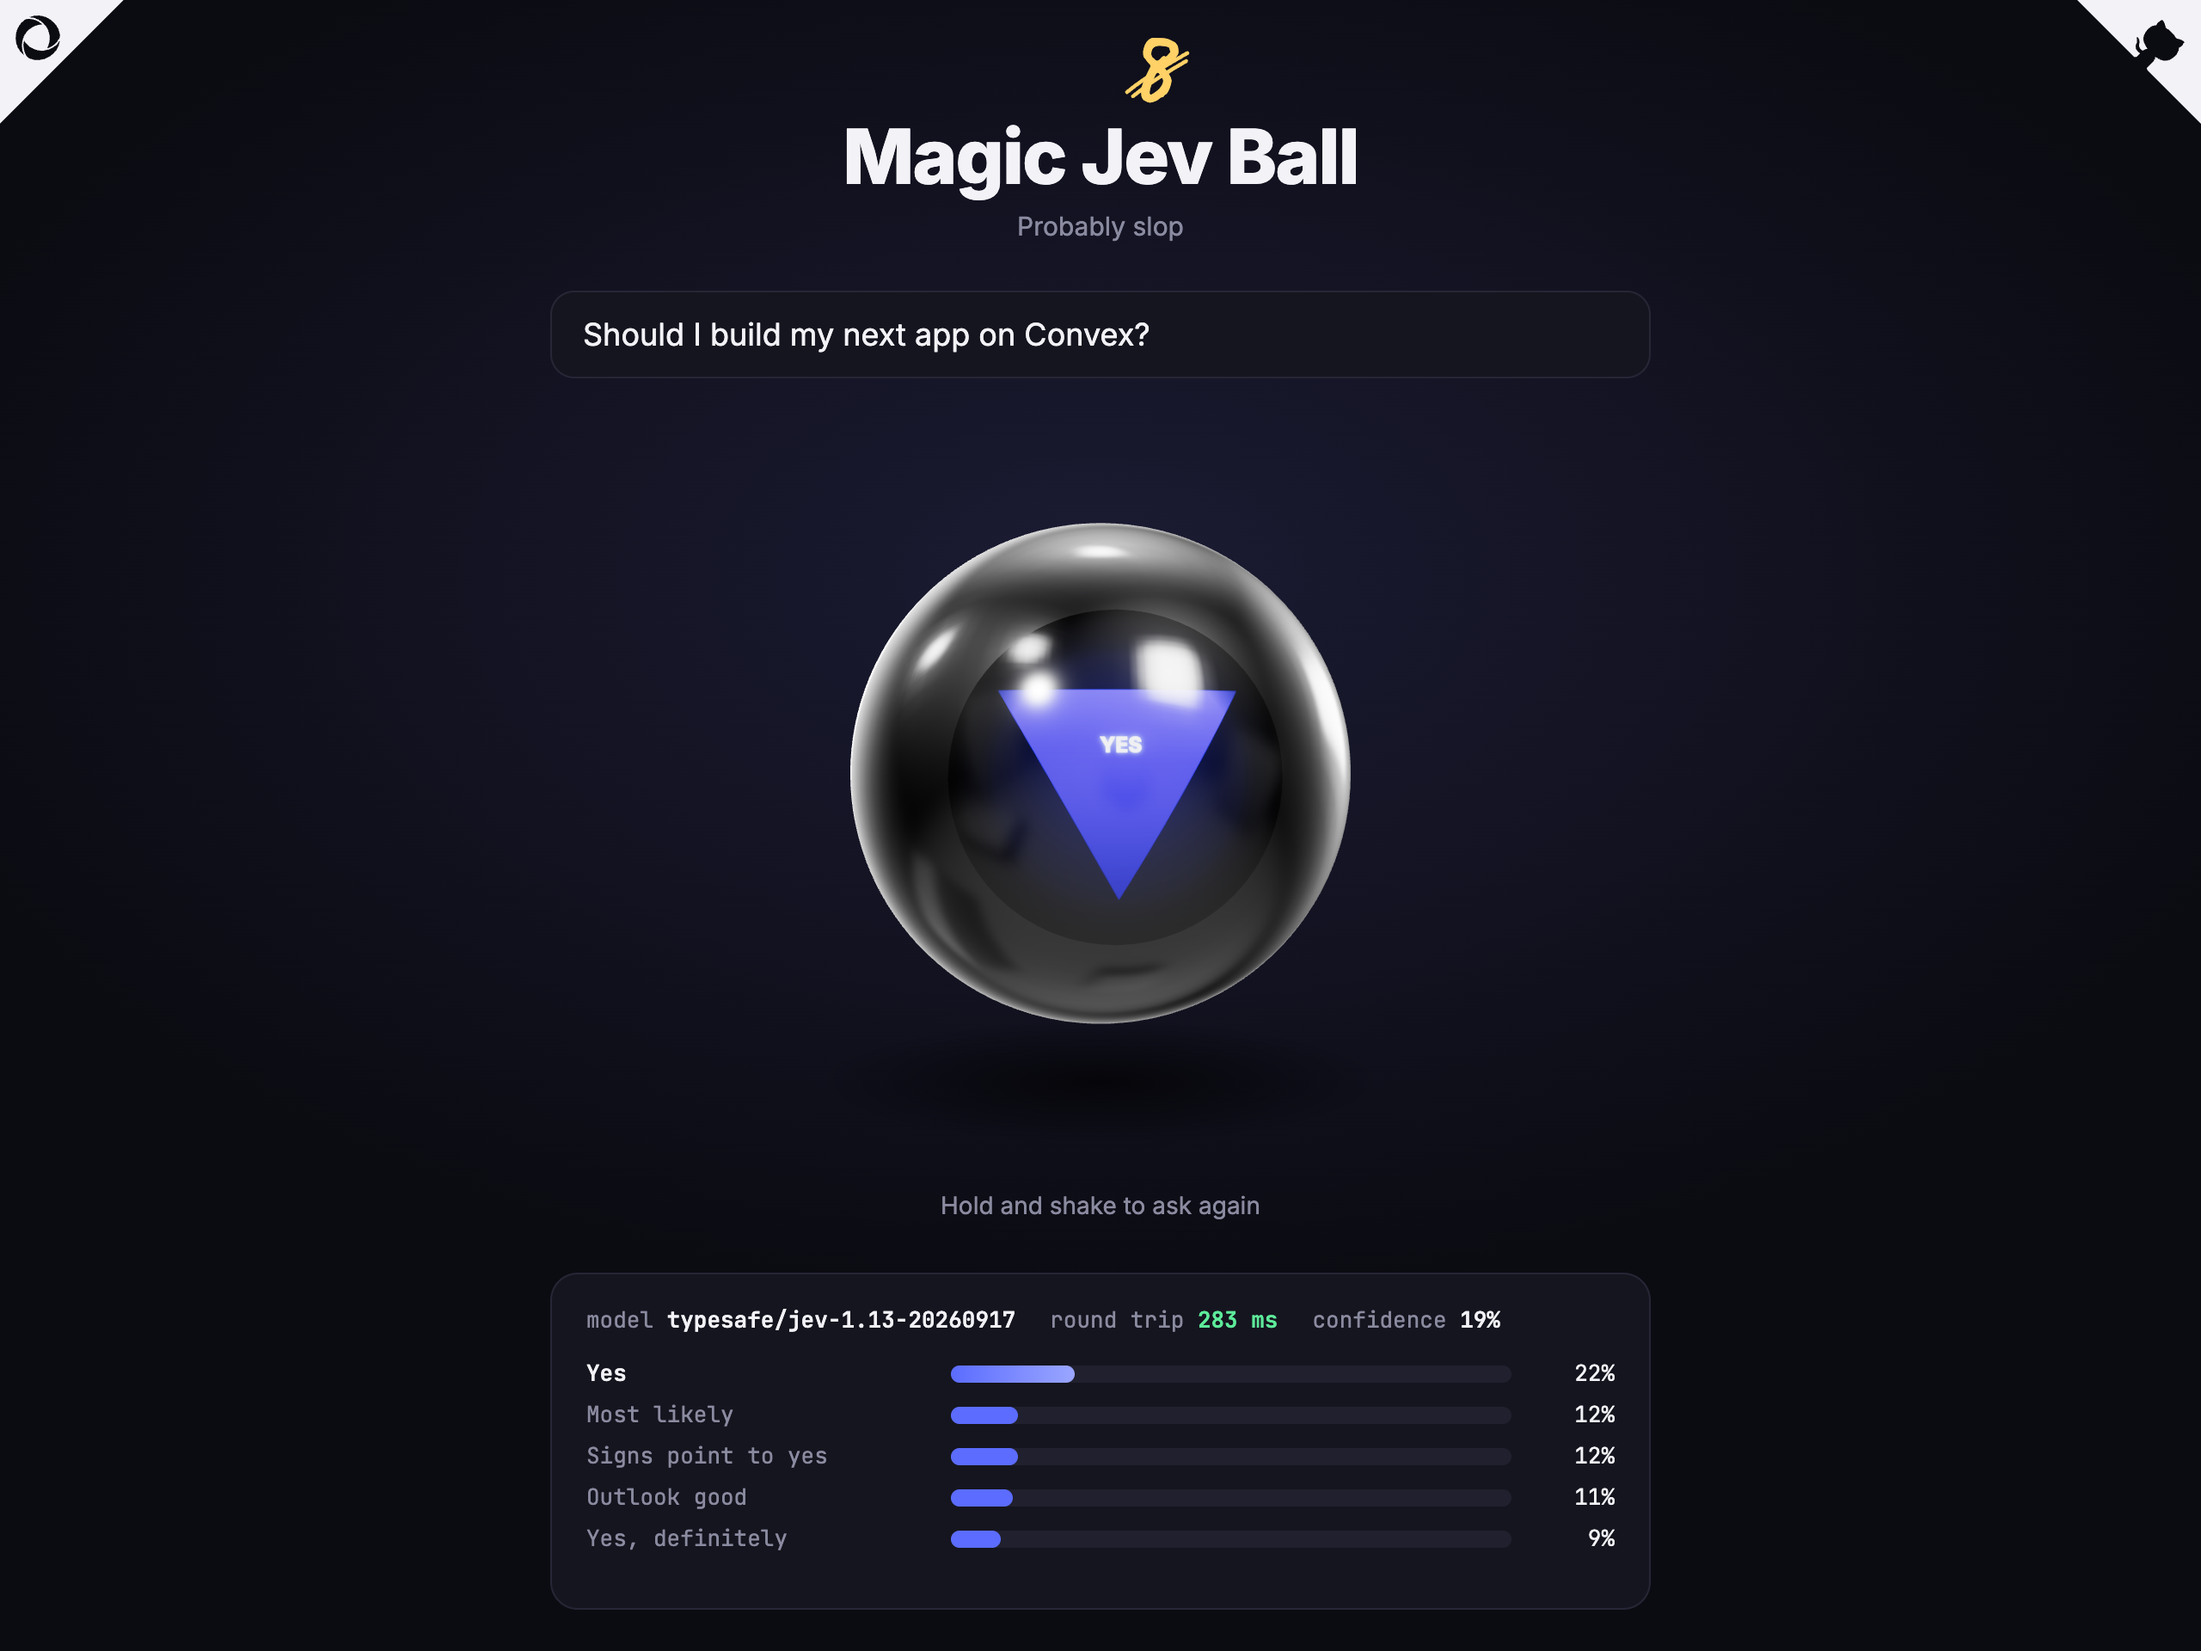
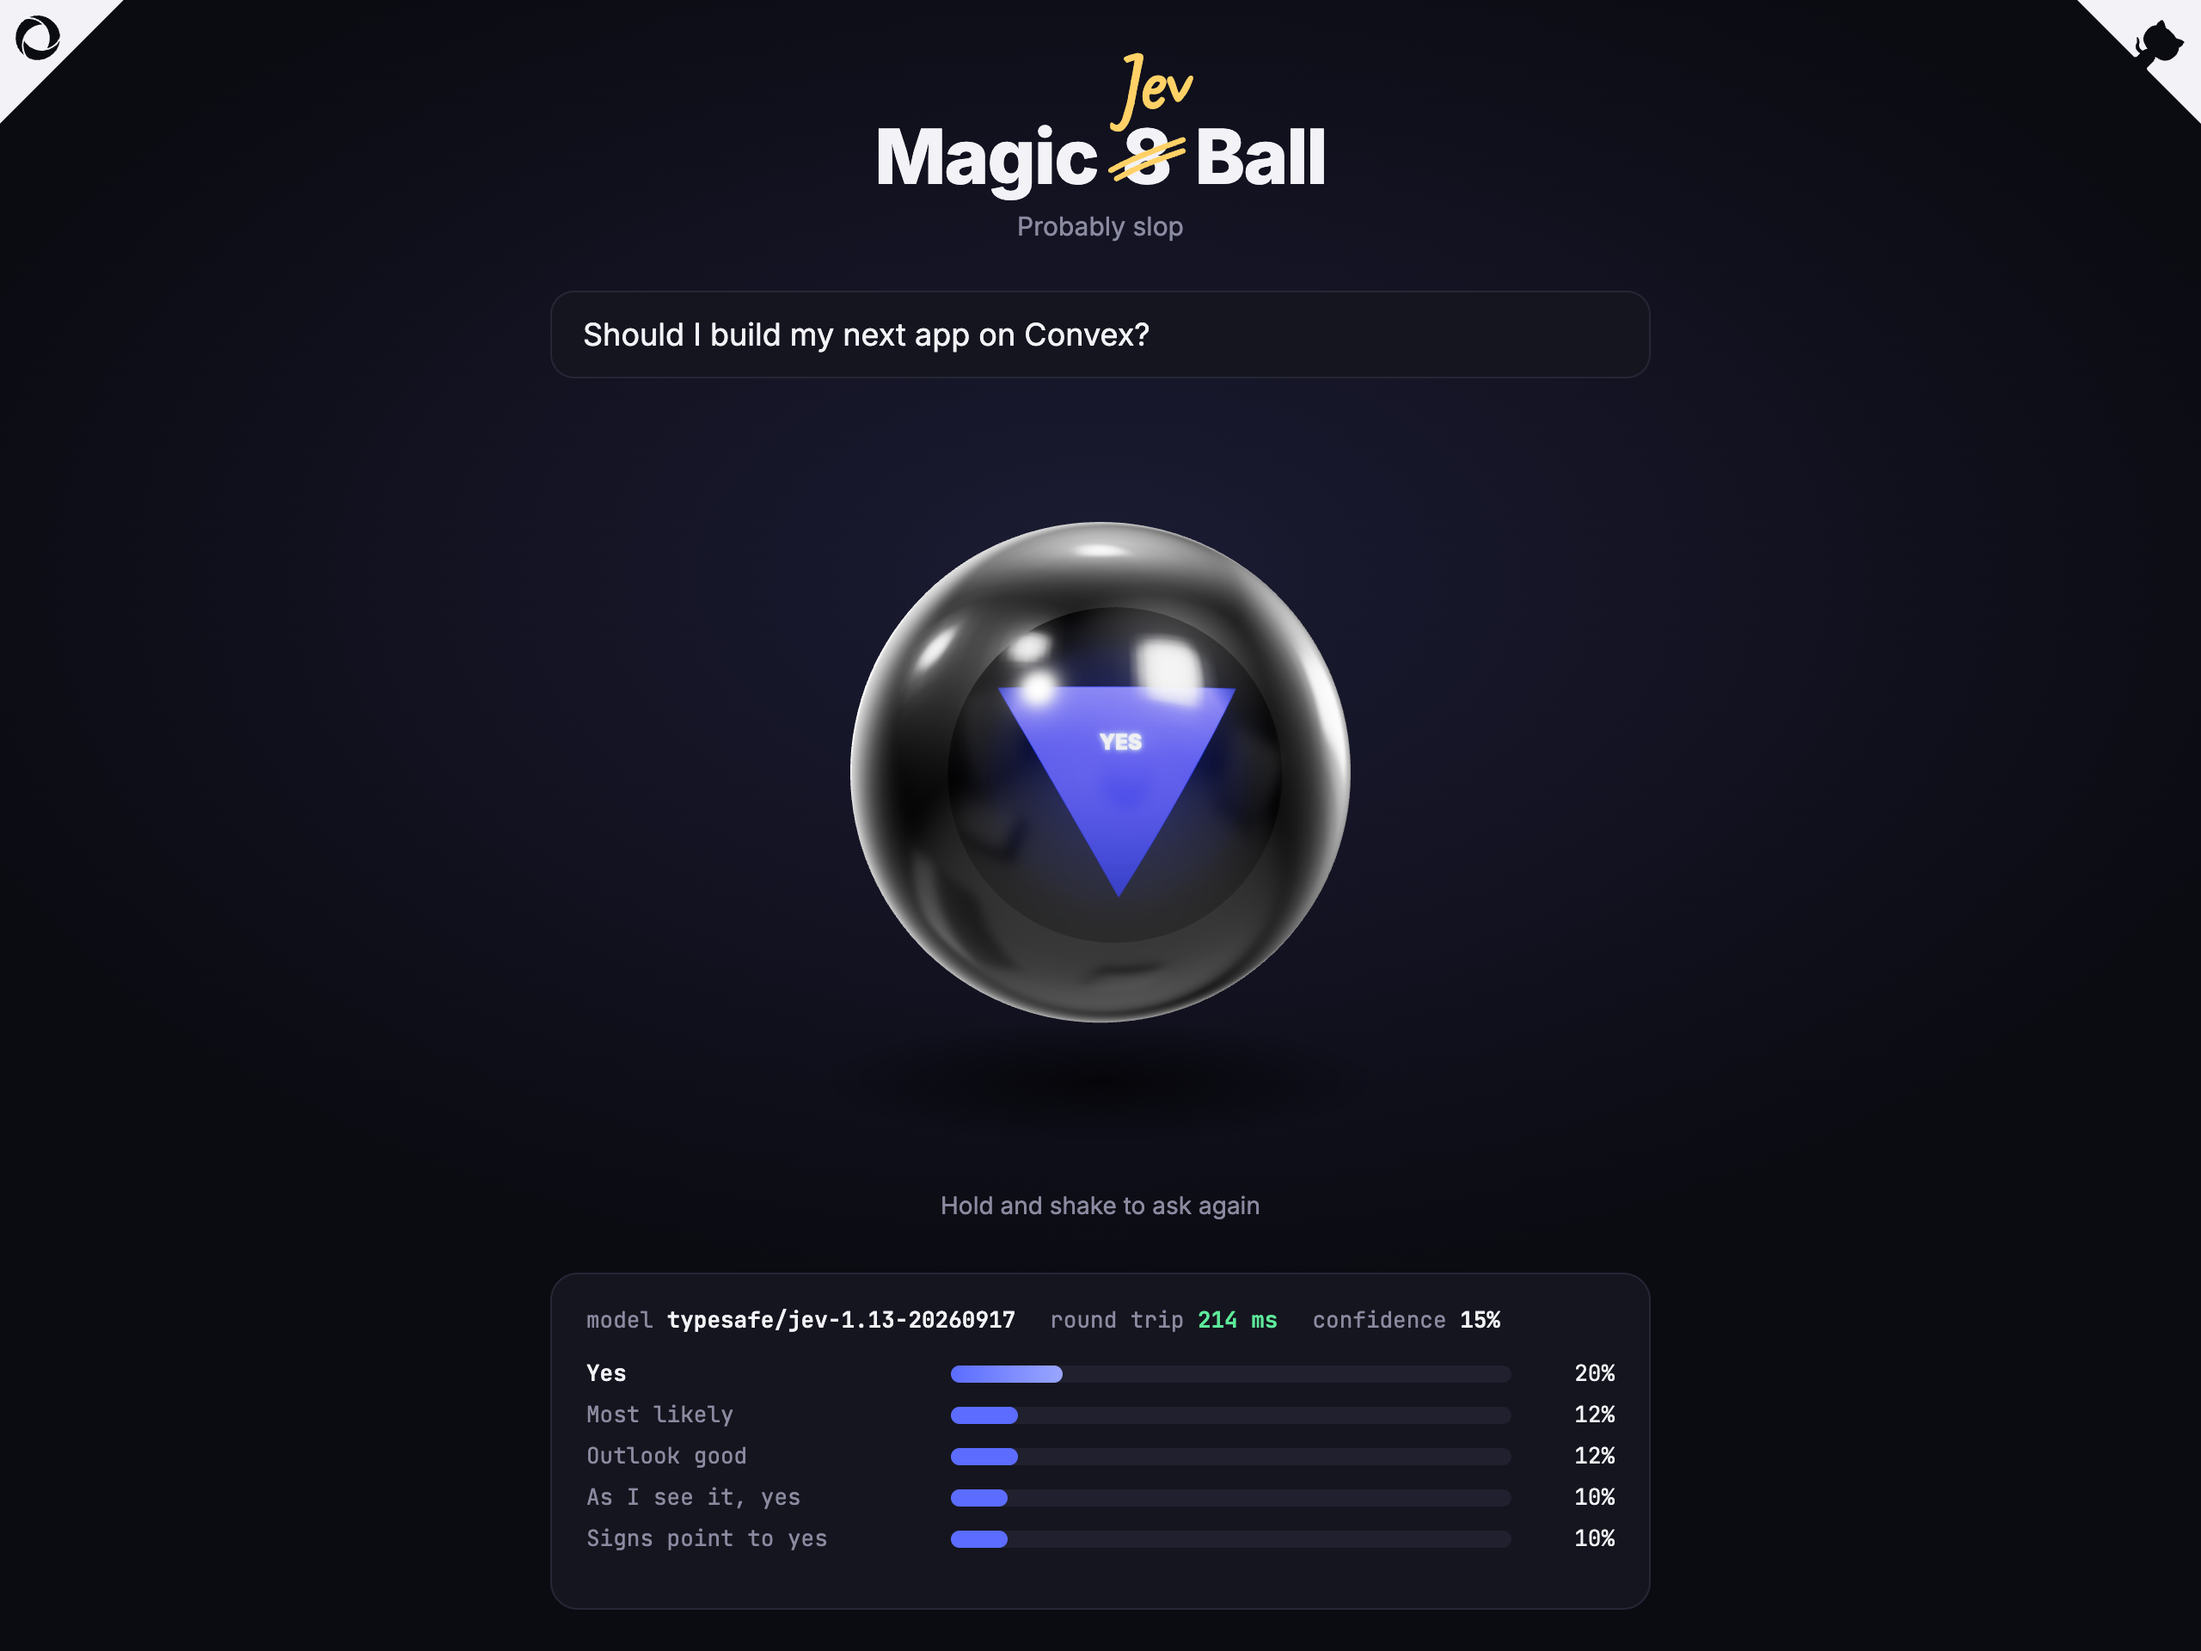
Heading: Magic 8 Ball with the 8 crossed out and Jev written above

Changed region(s): [[0.375, 0.0312, 0.625, 0.125], [0.25, 0.875, 0.375, 0.9375], [0.5, 0.4375, 0.5312, 0.4688]]

diff --git a/index.html b/index.html
@@ -97,15 +97,16 @@
   .cvx-corner svg.tri { fill: var(--fg); width: 72px; height: 72px; display: block; }
   .cvx-corner svg.logo { position: absolute; top: 9px; left: 9px; width: 26px; height: 26px; fill: var(--bg); transition: transform .3s; }
   .cvx-corner:hover svg.logo { transform: rotate(-20deg) scale(1.1); }
-  .jev { position: relative; display: inline-block; }
-  /* Playful correction: a hand-written 8, scribbled out, above "Jev". */
-  .struck {
-    position: absolute; left: 50%; top: -0.95em; transform: translateX(-50%) rotate(-10deg);
-    font-family: Caveat, cursive; font-weight: 600; font-size: 1.35em; line-height: 1; color: var(--doodle);
-    pointer-events: none;
+  /* Playful correction: the 8 is scribbled out and "Jev" is hand-written above it. */
+  .fix { position: relative; display: inline-block; margin: 0 0.12em; }
+  .old { position: relative; display: inline-block; }
+  .old svg { position: absolute; left: 50%; top: 50%; width: 1.1em; height: 0.75em; transform: translate(-50%, -50%); overflow: visible; }
+  .old path { fill: none; stroke: var(--doodle); stroke-width: 4; stroke-linecap: round; }
+  .new {
+    position: absolute; left: 50%; bottom: 82%; transform: translateX(-50%) rotate(-8deg);
+    font-family: Caveat, cursive; font-weight: 600; font-size: 1.1em; line-height: 1; color: var(--doodle);
+    white-space: nowrap; pointer-events: none;
   }
-  .struck svg { position: absolute; left: 68%; top: 50%; width: 0.8em; height: 0.5em; transform: translate(-50%, -30%); overflow: visible; }
-  .struck path { fill: none; stroke: var(--doodle); stroke-width: 3; stroke-linecap: round; }
 </style>
 </head>
 <body>
@@ -116,7 +117,7 @@
   <a class="gh-corner" href="https://github.com/mikecann/magic-jev-ball" target="_blank" rel="noopener" aria-label="View source on GitHub">
     <svg viewBox="0 0 250 250" aria-hidden="true"><path d="M0,0 L115,115 L130,115 L142,142 L250,250 L250,0 Z"/><path d="M128.3,109.0 C113.8,99.7 119.0,89.6 119.0,89.6 C122.0,82.7 120.5,78.6 120.5,78.6 C119.2,72.0 123.4,76.3 123.4,76.3 C127.3,80.9 125.5,87.3 125.5,87.3 C122.9,97.6 130.6,101.9 134.4,103.2" fill="currentColor" style="transform-origin: 130px 106px;" class="octo-arm"/><path d="M115.0,115.0 C114.9,115.1 118.7,116.5 119.8,115.4 L133.7,101.6 C136.9,99.2 139.9,98.4 142.2,98.6 C133.8,88.0 127.5,74.4 143.8,58.0 C148.5,53.4 154.0,51.2 159.7,51.0 C160.3,49.4 163.2,43.6 171.4,40.1 C171.4,40.1 176.1,42.5 178.8,56.2 C183.1,58.6 187.2,61.8 190.9,65.4 C194.5,69.0 197.7,73.2 200.1,77.6 C213.8,80.2 216.3,84.9 216.3,84.9 C212.7,93.1 206.9,96.0 205.4,96.6 C205.1,102.4 203.0,107.8 198.3,112.5 C181.9,128.9 168.3,122.5 157.7,114.1 C157.9,116.9 156.7,120.9 152.7,124.9 L141.0,136.5 C139.8,137.7 141.6,141.9 141.8,141.8 Z" fill="currentColor"/></svg>
   </a>
-  <h1>Magic <span class="jev">Jev<span class="struck" aria-hidden="true">8<svg viewBox="0 0 60 40"><path d="M4 30 C 18 22, 34 16, 56 8"/><path d="M8 34 C 22 26, 38 20, 54 14"/></svg></span></span> Ball</h1>
+  <h1 aria-label="Magic Jev Ball">Magic <span class="fix" aria-hidden="true"><span class="old">8<svg viewBox="0 0 60 40"><path d="M4 30 C 18 22, 34 16, 56 8"/><path d="M8 36 C 22 28, 38 22, 56 16"/></svg></span><span class="new">Jev</span></span> Ball</h1>
   <p class="sub">Probably slop</p>
 
   <form id="form">
